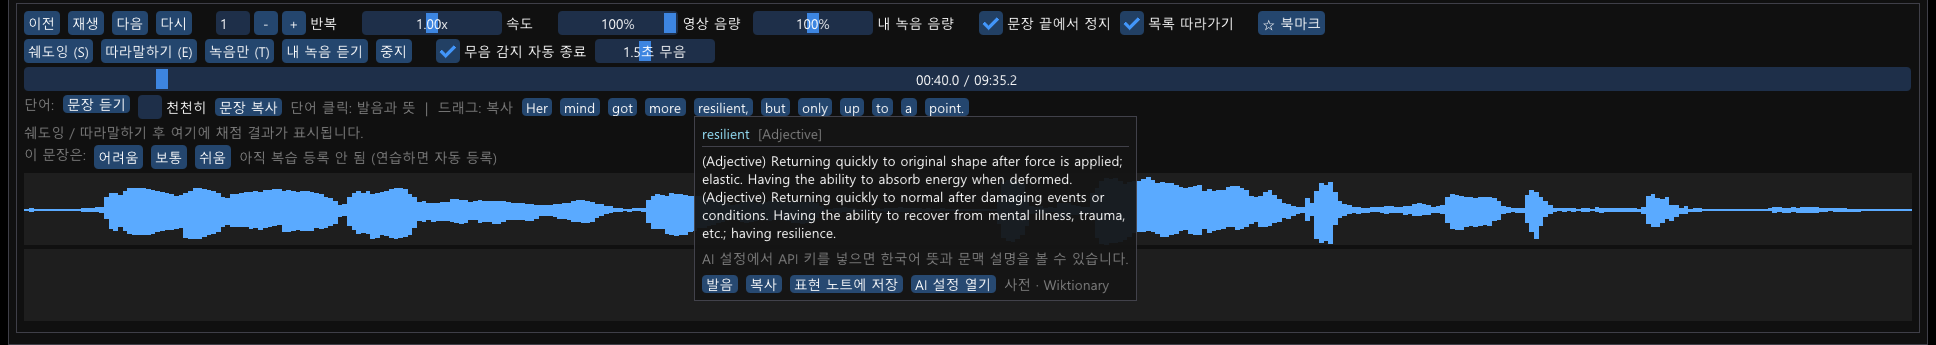
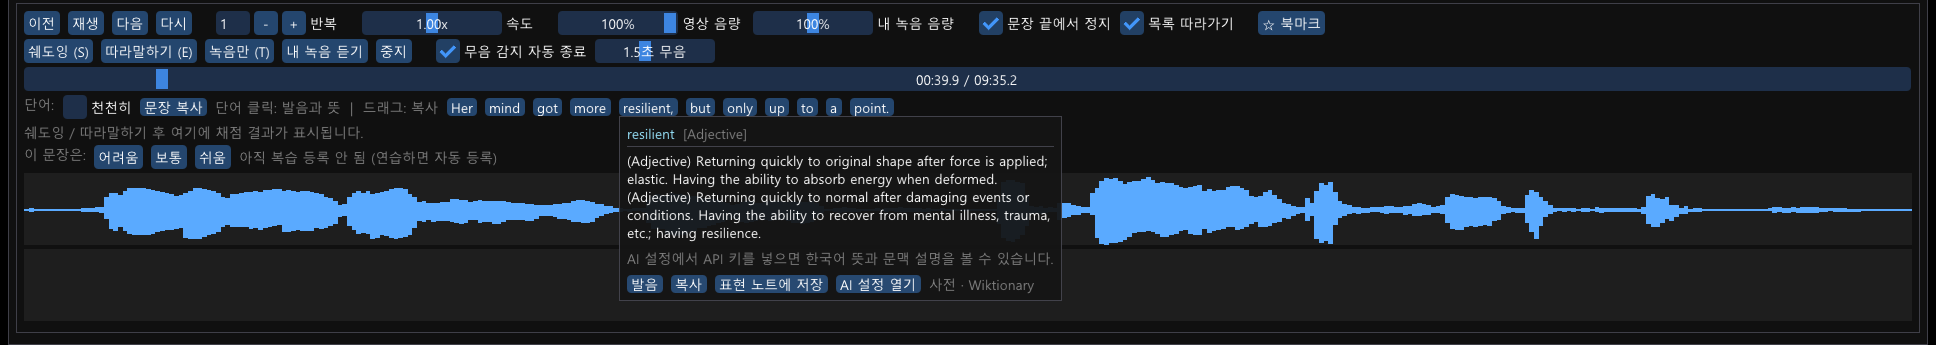
단어 행의 [문장 듣기] 버튼 제거 (v0.5.1)
영상에서 문장을 들을 수 있으니 합성 음성으로 문장 전체를 읽는 버튼은 뺀다. 단어 발음과 [천천히] 옵션은 유지.

Changed region(s): [[0.3099, 0.4348, 0.5888, 0.8696], [0.031, 0.2319, 0.5269, 0.3478], [0.3099, 0.3768, 0.4339, 0.4058]]

diff --git a/src/gui_main.cpp b/src/gui_main.cpp
@@ -1618,8 +1618,6 @@ struct App {
         ImGui::TextDisabled("단어:");
         ImGui::SameLine();
         ImGui::BeginDisabled(!tts.available());
-        if (ImGui::SmallButton("문장 듣기")) speak(sentence);
-        ImGui::SameLine();
         if (ImGui::Checkbox("천천히", &ttsSlow)) db.setSetting("tts.slow", ttsSlow ? "1" : "0");
         ImGui::EndDisabled();
         if (ImGui::IsItemHovered(ImGuiHoveredFlags_AllowWhenDisabled)) {

diff --git a/README.en.md b/README.en.md
@@ -45,7 +45,7 @@ Paste a link and it downloads the video with English subtitles, splits them into
   - Review sessions: one click on [복습 시작] walks you through everything that is due
 - **Waveforms**: the original sentence and your recording side by side
 - **Volume**: separate video and recording-playback volume (remembered)
-- **Word pronunciation and meaning**: the current sentence expands into word buttons; click one and the system speech synthesizer (an English voice) pronounces it while a meaning popup opens. With an AI key you get the base form, IPA, part of speech, Korean meaning, how it is used in this sentence, and an example; without one, English definitions from Wiktionary. Save straight to the expression notes from the popup. Also whole-sentence and slow playback, plus [듣기] buttons in the expressions tab and review cards. Pronunciation is offline, nothing to install
+- **Word pronunciation and meaning**: the current sentence expands into word buttons; click one and the system speech synthesizer (an English voice) pronounces it while a meaning popup opens. With an AI key you get the base form, IPA, part of speech, Korean meaning, how it is used in this sentence, and an example; without one, English definitions from Wiktionary. Save straight to the expression notes from the popup. Also a slow-playback option, plus [듣기] buttons in the expressions tab and review cards. Pronunciation is offline, nothing to install
 - **Copy sentences**: drag across the word buttons to copy that range to the clipboard, or use [문장 복사] to copy the whole sentence
 
 ## Download (for users)

diff --git a/README.md b/README.md
@@ -45,7 +45,7 @@
   - 복습 세션: [복습 시작] 한 번으로 복습할 문장을 순서대로 열어 준다
 - **파형 표시**: 원본 문장과 내 녹음의 파형을 나란히 표시
 - **음량**: 영상 음량과 내 녹음 재생 음량을 따로 조절 (설정 기억)
-- **단어 발음과 뜻**: 현재 문장이 단어 버튼으로 펼쳐지고, 클릭하면 시스템 음성 합성(영어 음성)이 발음을 읽어 주면서 뜻 팝업이 뜬다. AI 키가 있으면 기본형 · 발음 기호 · 품사 · 한국어 뜻 · 이 문장에서의 쓰임 · 예문을, 없으면 Wiktionary 영어 정의를 보여 준다. 팝업에서 바로 [표현 노트에 저장]. 문장 전체 듣기와 천천히 듣기, 표현 탭과 복습 카드에도 [듣기]. 발음은 오프라인, 별도 설치 없음
+- **단어 발음과 뜻**: 현재 문장이 단어 버튼으로 펼쳐지고, 클릭하면 시스템 음성 합성(영어 음성)이 발음을 읽어 주면서 뜻 팝업이 뜬다. AI 키가 있으면 기본형 · 발음 기호 · 품사 · 한국어 뜻 · 이 문장에서의 쓰임 · 예문을, 없으면 Wiktionary 영어 정의를 보여 준다. 팝업에서 바로 [표현 노트에 저장]. 천천히 듣기 옵션, 표현 탭과 복습 카드에도 [듣기]. 발음은 오프라인, 별도 설치 없음
 - **문장 복사**: 단어 버튼 위를 드래그하면 그 범위의 단어가 클립보드에 복사되고, [문장 복사]로 문장 전체도 복사할 수 있다
 
 ## 다운로드 (사용자용)
